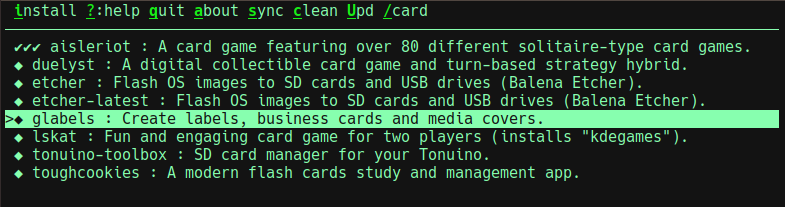
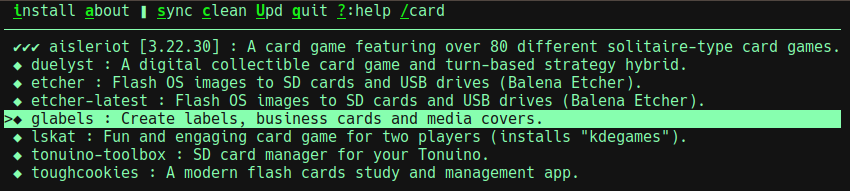
polish

diff --git a/src/vappman/main.py b/src/vappman/main.py
@@ -147,21 +147,21 @@ class Vappman:
                 # EXPAND
                 lines = [
                     'ALWAYS AVAILABLE:',
-                    '   q or x - quit program (CTL-C disabled)',
                     '   a - about (more info about app)',
                     '   s - sync (update appman itself)',
                     '   c - clean (remove unneeded files/folters)',
                     '   U - update ALL installed apps',
-                    '   / - filter apps',
-                    '   ENTER = install, remove, or return from help',
+                    '   q or x - quit program (CTL-C disabled)',
+                    '   / - filter apps by keywords or regex',
                     '   ESC = clear filter and jump to top',
+                    '   ENTER = install, remove, or return from help',
                     'CONTEXT SENSITIVE:',
                     '   i - install uninstalled app',
                     '   r - remove installed app',
-                    '   b - backup installed app',
                     '   u - update installed app',
-                    '   t - test by opening a terminal emulator and launching the app'
+                    '   b - backup installed app',
                     '   o - overwrite app from its backup',
+                    '   t - test by opening a terminal emulator and launching the app',
 
                 ]
                 for line in lines:
@@ -203,7 +203,7 @@ class Vappman:
             else:
                 line += f' {key}:{verb}'
         # or EXPAND
-        line += f' ?:help quit about sync clean Upd /{self.prev_filter}  '
+        line += f' about ❚ sync clean Upd quit ?:help /{self.prev_filter}  '
         # for action in self.actions:
             # line += f' {action[0]}:{action}'
         return line[1:]
@@ -219,9 +219,9 @@ class Vappman:
             # EXPAND
             if self.pick_is_installed:
                 actions['r'] = 'rmv'
+                actions['u'] = 'upd'
                 actions['b'] = 'bkup'
                 actions['o'] = 'overwr'
-                actions['u'] = 'upd'
                 actions['t'] = 'test'
             else:
                 actions['i'] = 'install'
@@ -241,6 +241,9 @@ class Vappman:
         wds = parts[0].split()
         this.win.head.pad.move(0, 0)
         for wd in wds:
+            if wd[0]in ('<', '|', '❚'):
+                this.win.add_header(wd + ' ', resume=True)
+                continue
             if wd:
                 this.win.add_header(wd[0], attr=cs.A_BOLD|cs.A_UNDERLINE, resume=True)
             if wd[1:]:

diff --git a/README.md b/README.md
@@ -57,6 +57,7 @@ But it does NOT cover:
 ---
 
 NOTES: in this example:
+* keys to the left of `❚` apply to the highlighted app; keys to the right apply globally.
 * the filter is `card` so it shows app lines with words starting with `card`.
 * the reverse video, current position is on `glabels`;
   thus if `i` (or ENTER) is typed, `appman install glabels` is run.
@@ -64,7 +65,7 @@ NOTES: in this example:
   all the filtered apps; otherwise, the decoration suggests where you are in the
   partial view of the filtered apps.
 * the matching installed app has the '✔✔✔' prefix.
-* the fixed top line shows some of the available action keys (e.g., `q` quits the app)
+* the fixed top line shows mos of the available action keys (e.g., `q` quits the app)
 * use `?` to open the help screen describing all keys (including navigation)
 
 ## Screen Recording (Intro to vappman based on v0.7)
